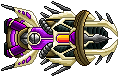
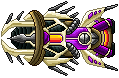
creating plaer and enemys moving players and enemys

diff --git a/code/level.py b/code/level.py
@@ -1,25 +1,29 @@
 #!/usr/bin/python
 # -*- coding: utf-8 -*-
+import random
 import sys
 
 import pygame
 from pygame import Surface, Rect
 from pygame.font import Font
 
-from code.Const import COLOR_MENU_OP, WIN_HEIGHT
+from code.Const import COLOR_MENU_OP, WIN_HEIGHT, MENU_OPTION, EVENT_ENEMY, SPAW_TIME
 from code.entity import Entity
 from code.entityFactory import EntityFactory
 
 
 class Level:
     def __init__(self, window, name, game_mode):
-        self.timeout = None
+        self.timeout = 20000 # 20 segundos
         self.window = window
         self.name = name
         self.game_mode = game_mode
         self.entity_list: list[Entity] = []
         self.entity_list.extend(EntityFactory.get_entity('Level1Bg'))
-        self.timeout = 20000 # 20 segundos
+        self.entity_list.append(EntityFactory.get_entity('Player1'))
+        if game_mode in [MENU_OPTION[1], MENU_OPTION[2]]:
+            self.entity_list.append(EntityFactory.get_entity('Player2'))
+        pygame.time.set_timer(EVENT_ENEMY, SPAW_TIME)
 
     def run(self, ):
         pygame.mixer_music.load(f'./asset/{self.name}.wav')
@@ -34,6 +38,9 @@ class Level:
                 if event.type == pygame.QUIT:
                     pygame.quit()  # Fechar janela
                     sys.exit()
+                if event.type == EVENT_ENEMY:
+                    choice = random.choice(('Enemy1', 'Enemy2'))
+                    self.entity_list.append(EntityFactory.get_entity(choice))
 
         # printed text
             self.level_text(14, f'{self.name} - Timeout: {self.timeout / 1000:.1f}s', COLOR_MENU_OP, (10, 5))

diff --git a/code/Const.py b/code/Const.py
@@ -1,9 +1,13 @@
 # C
+import pygame
+
 COLOR_MENU = (50, 25, 0)
 COLOR_MENU_OP = (250, 250, 230)
 COLOR_MENU_SELECT = (0, 255, 255)
 
 # E
+EVENT_ENEMY = pygame.USEREVENT +1
+
 ENTITY_SPEED = {
     'Level1Bg0': 0,
     'Level1Bg1': 0,
@@ -14,18 +18,33 @@ ENTITY_SPEED = {
     'Level1Bg6': 5,
     'Level1Bg7': 6,
     'Level1Bg8': 7,
+    'Player1': 6,
+    'Player2': 6,
+    'Enemy1': 3,
+    'Enemy2' : 2
 
 }
 
 # M
-
 MENU_OPTION = (' Novo Jogo - 1 Jogador ',
                ' Novo Jogo - 2 Jogador - Cooperativo ',
                ' Novo Jogo - 2 Jogador - Competitivo ',
                'Classificação',
                'Sair'
                )
-
+# p
+PLAYER_KEY_UP = {'Player1': pygame.K_UP,
+                 'Player2': pygame.K_w}
+PLAYER_KEY_DOWN = {'Player1': pygame.K_DOWN,
+                   'Player2': pygame.K_s}
+PLAYER_KEY_LEFT = {'Player1': pygame.K_LEFT,
+                   'Player2': pygame.K_a}
+PLAYER_KEY_RIGHT = {'Player1': pygame.K_RIGHT,
+                    'Player2': pygame.K_d}
+PLAYER_KEY_SHOOT = {'Player1': pygame.K_RCTRL,
+                    'Player2': pygame.K_LCTRL}
+#
+SPAW_TIME = 5000
 # W
 WIN_WIDTH = 1000
 WIN_HEIGHT = 561

diff --git a/code/player.py b/code/player.py
@@ -1,15 +1,31 @@
 #!/usr/bin/python
 # -*- coding: utf-8 -*-
+import pygame.key
 
-from Entity import Entity
+from code.Const import ENTITY_SPEED, WIN_HEIGHT, WIN_WIDTH, PLAYER_KEY_UP, PLAYER_KEY_DOWN, PLAYER_KEY_LEFT, \
+    PLAYER_KEY_RIGHT
+from code.entity import Entity
 
 
 class Player(Entity):
-    def __init__(self):
-        pass
+    def __init__(self, name: str, position: tuple):
+        super().__init__(name, position)
 
-    def update(self, ):
-        pass
+    #def update(self, ):
+     #   pass
 
     def move(self, ):
+        pressed_key = pygame.key.get_pressed()
+        if pressed_key[PLAYER_KEY_UP[self.name]] and self.rect.top >0:
+            self.rect.centery -= ENTITY_SPEED[self.name]
+        if pressed_key[PLAYER_KEY_DOWN[self.name]] and self.rect.bottom < WIN_HEIGHT:
+            self.rect.centery += ENTITY_SPEED[self.name]
+        if pressed_key[PLAYER_KEY_LEFT[self.name]] and self.rect.left > 10:
+            self.rect.centerx -= ENTITY_SPEED[self.name]
+        if pressed_key[PLAYER_KEY_RIGHT[self.name]] and self.rect.right < WIN_WIDTH/2:
+            self.rect.centerx += ENTITY_SPEED[self.name]
+
+
+
+
         pass

diff --git a/code/entityFactory.py b/code/entityFactory.py
@@ -1,7 +1,11 @@
 #!/usr/bin/python
 # -*- coding: utf-8 -*-
-from code.Const import WIN_WIDTH
+import random
+
+from code.Const import WIN_WIDTH, WIN_HEIGHT
 from code.background import Background
+from code.player import Player
+from code.enemy import Enemy
 
 
 class EntityFactory:
@@ -14,4 +18,11 @@ class EntityFactory:
                     list_Bg.append(Background(f'Level1Bg{i}', (0,0)))
                     list_Bg.append(Background(f'Level1Bg{i}', (WIN_WIDTH, 0)))
                 return list_Bg
-
+            case 'Player1':
+                return Player('Player1', (10, (WIN_HEIGHT/2) - 60))
+            case 'Player2':
+                return Player('Player2', (10, (WIN_HEIGHT / 2) + 60))
+            case 'Enemy1':
+                return Enemy('Enemy1', (WIN_WIDTH + 10, random.randint(15, WIN_HEIGHT - 15)))
+            case 'Enemy2':
+                return Enemy('Enemy2', (WIN_WIDTH + 10, random.randint(15, WIN_HEIGHT - 15)))

diff --git a/code/enemy.py b/code/enemy.py
@@ -1,12 +1,15 @@
 #!/usr/bin/python
 # -*- coding: utf-8 -*-
-
-from Entity import Entity
+from code.Const import ENTITY_SPEED, WIN_WIDTH
+from code.entity import Entity
 
 
 class Enemy(Entity):
-    def __init__(self):
-        pass
+    def __init__(self, name: str, position: tuple):
+        super().__init__(name, position)
+
 
     def move(self, ):
-        pass
+        self.rect.centerx -= ENTITY_SPEED[self.name]
+        if self.rect.right <= 0:
+            self.rect.left = WIN_WIDTH
